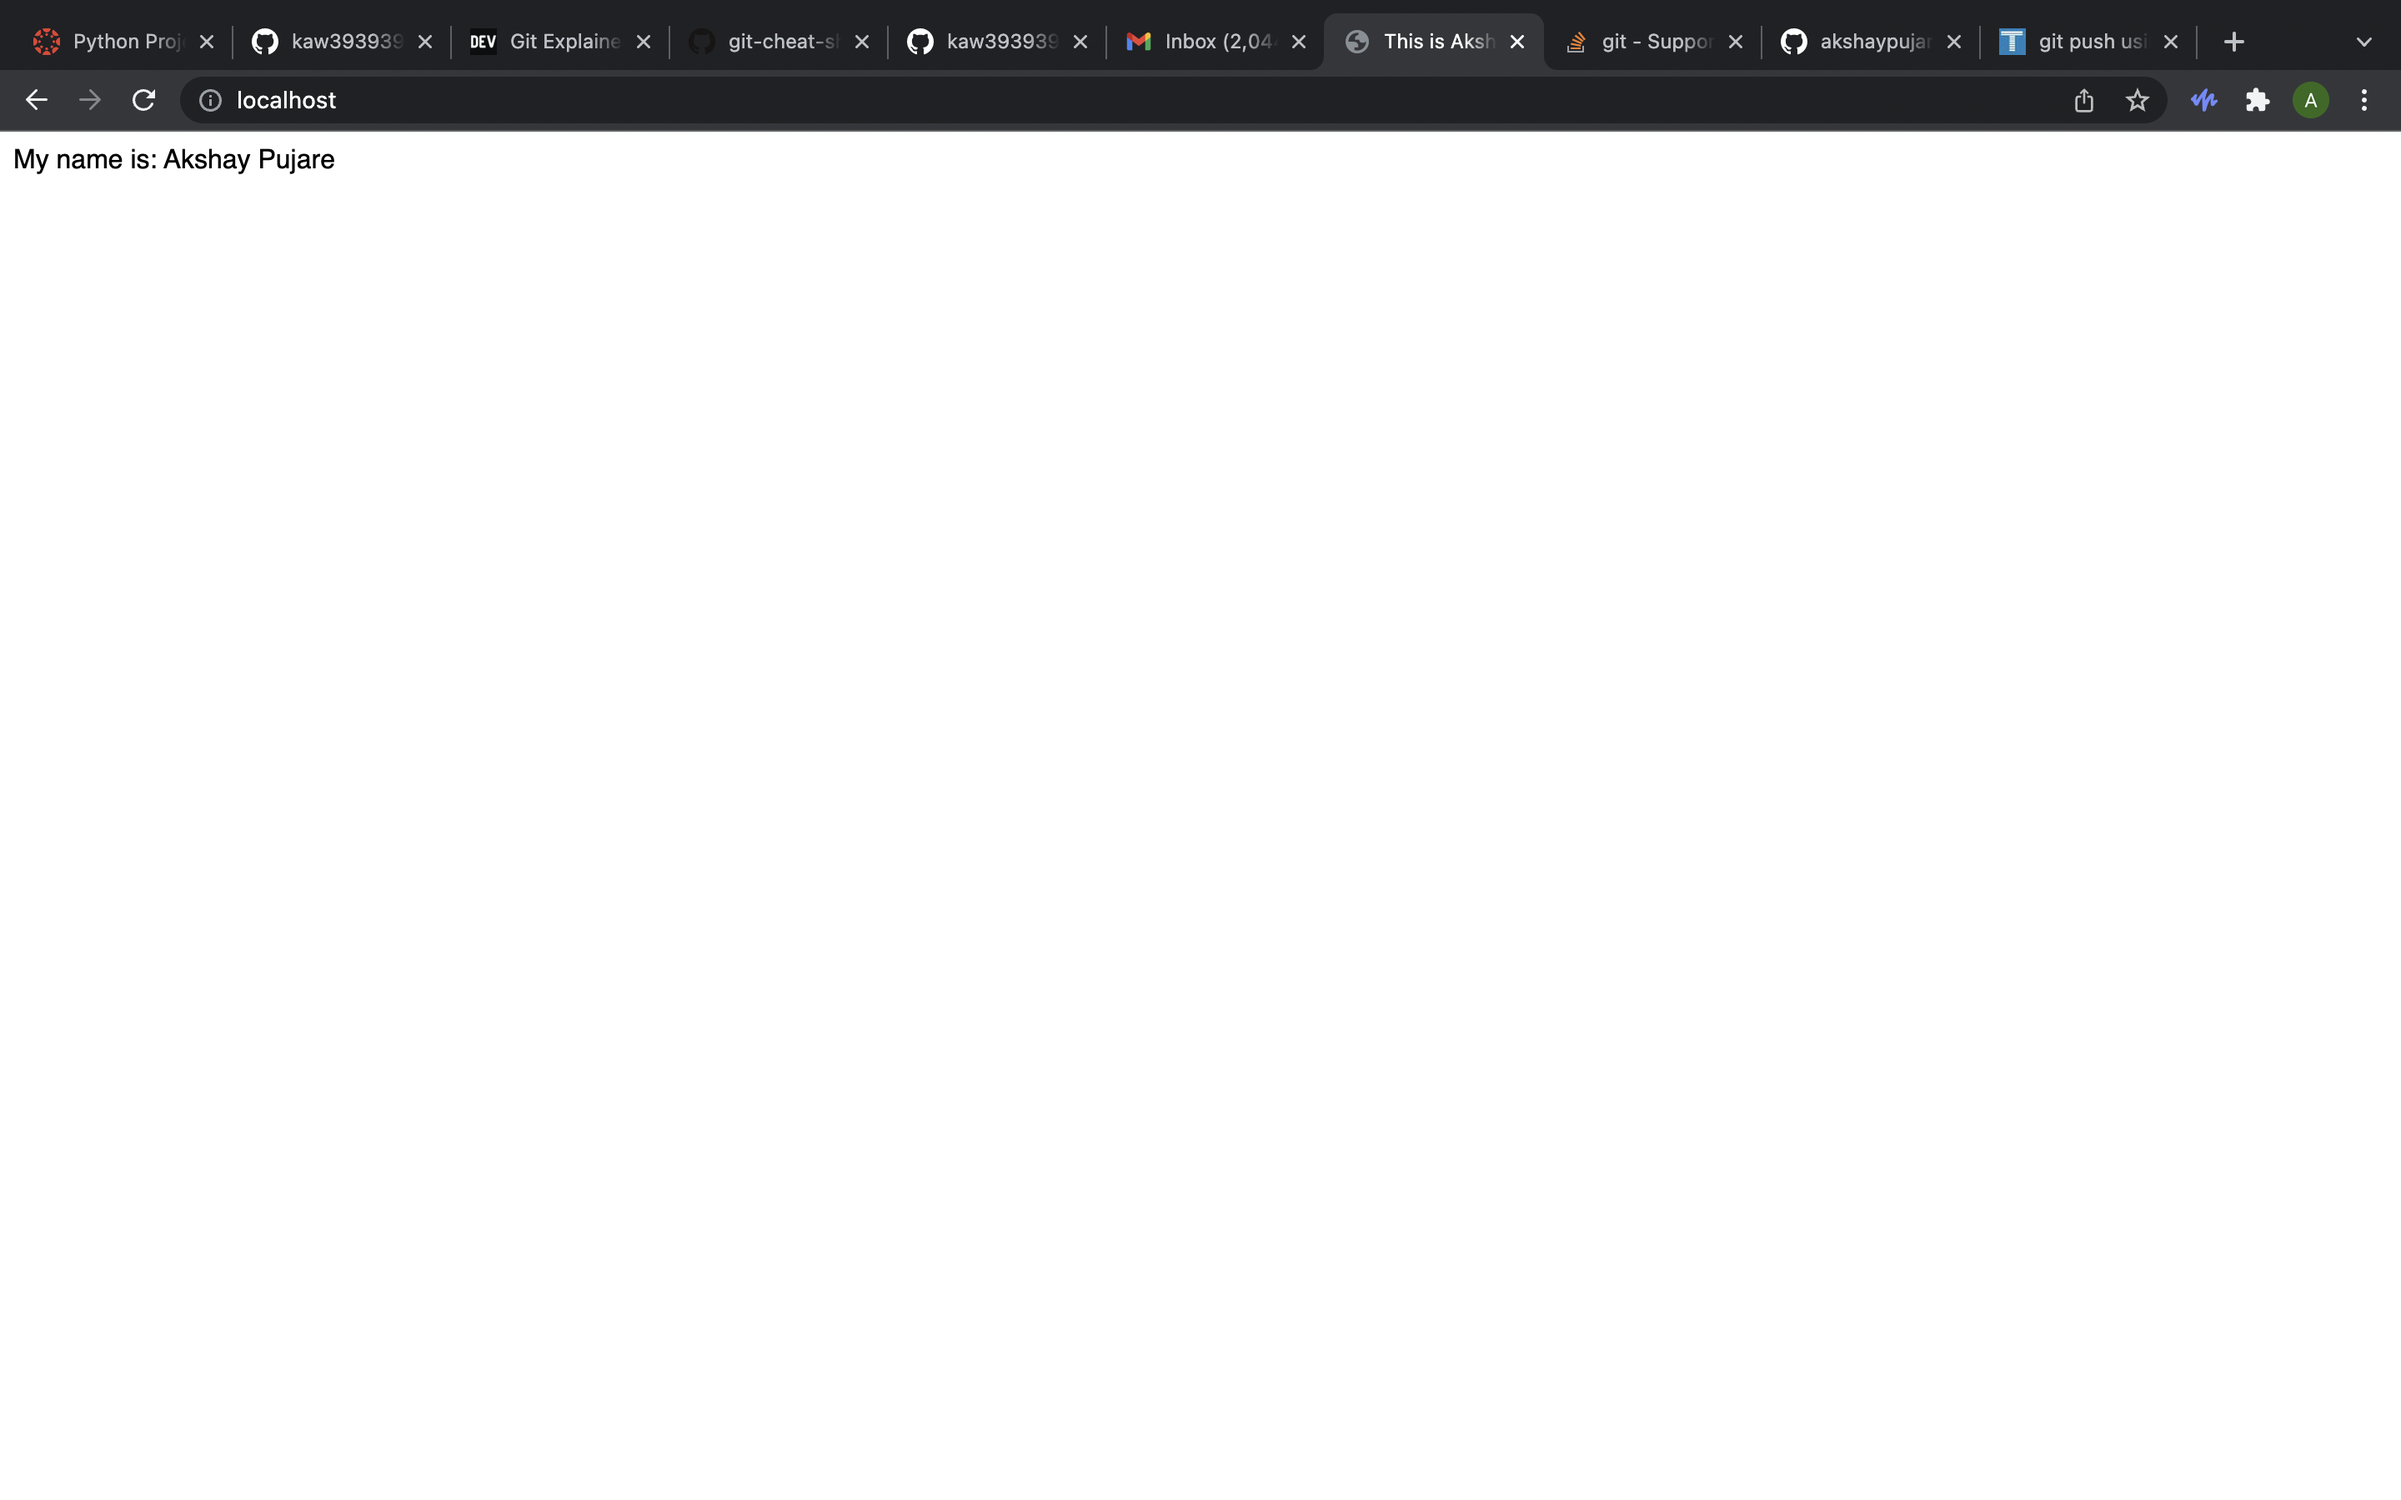
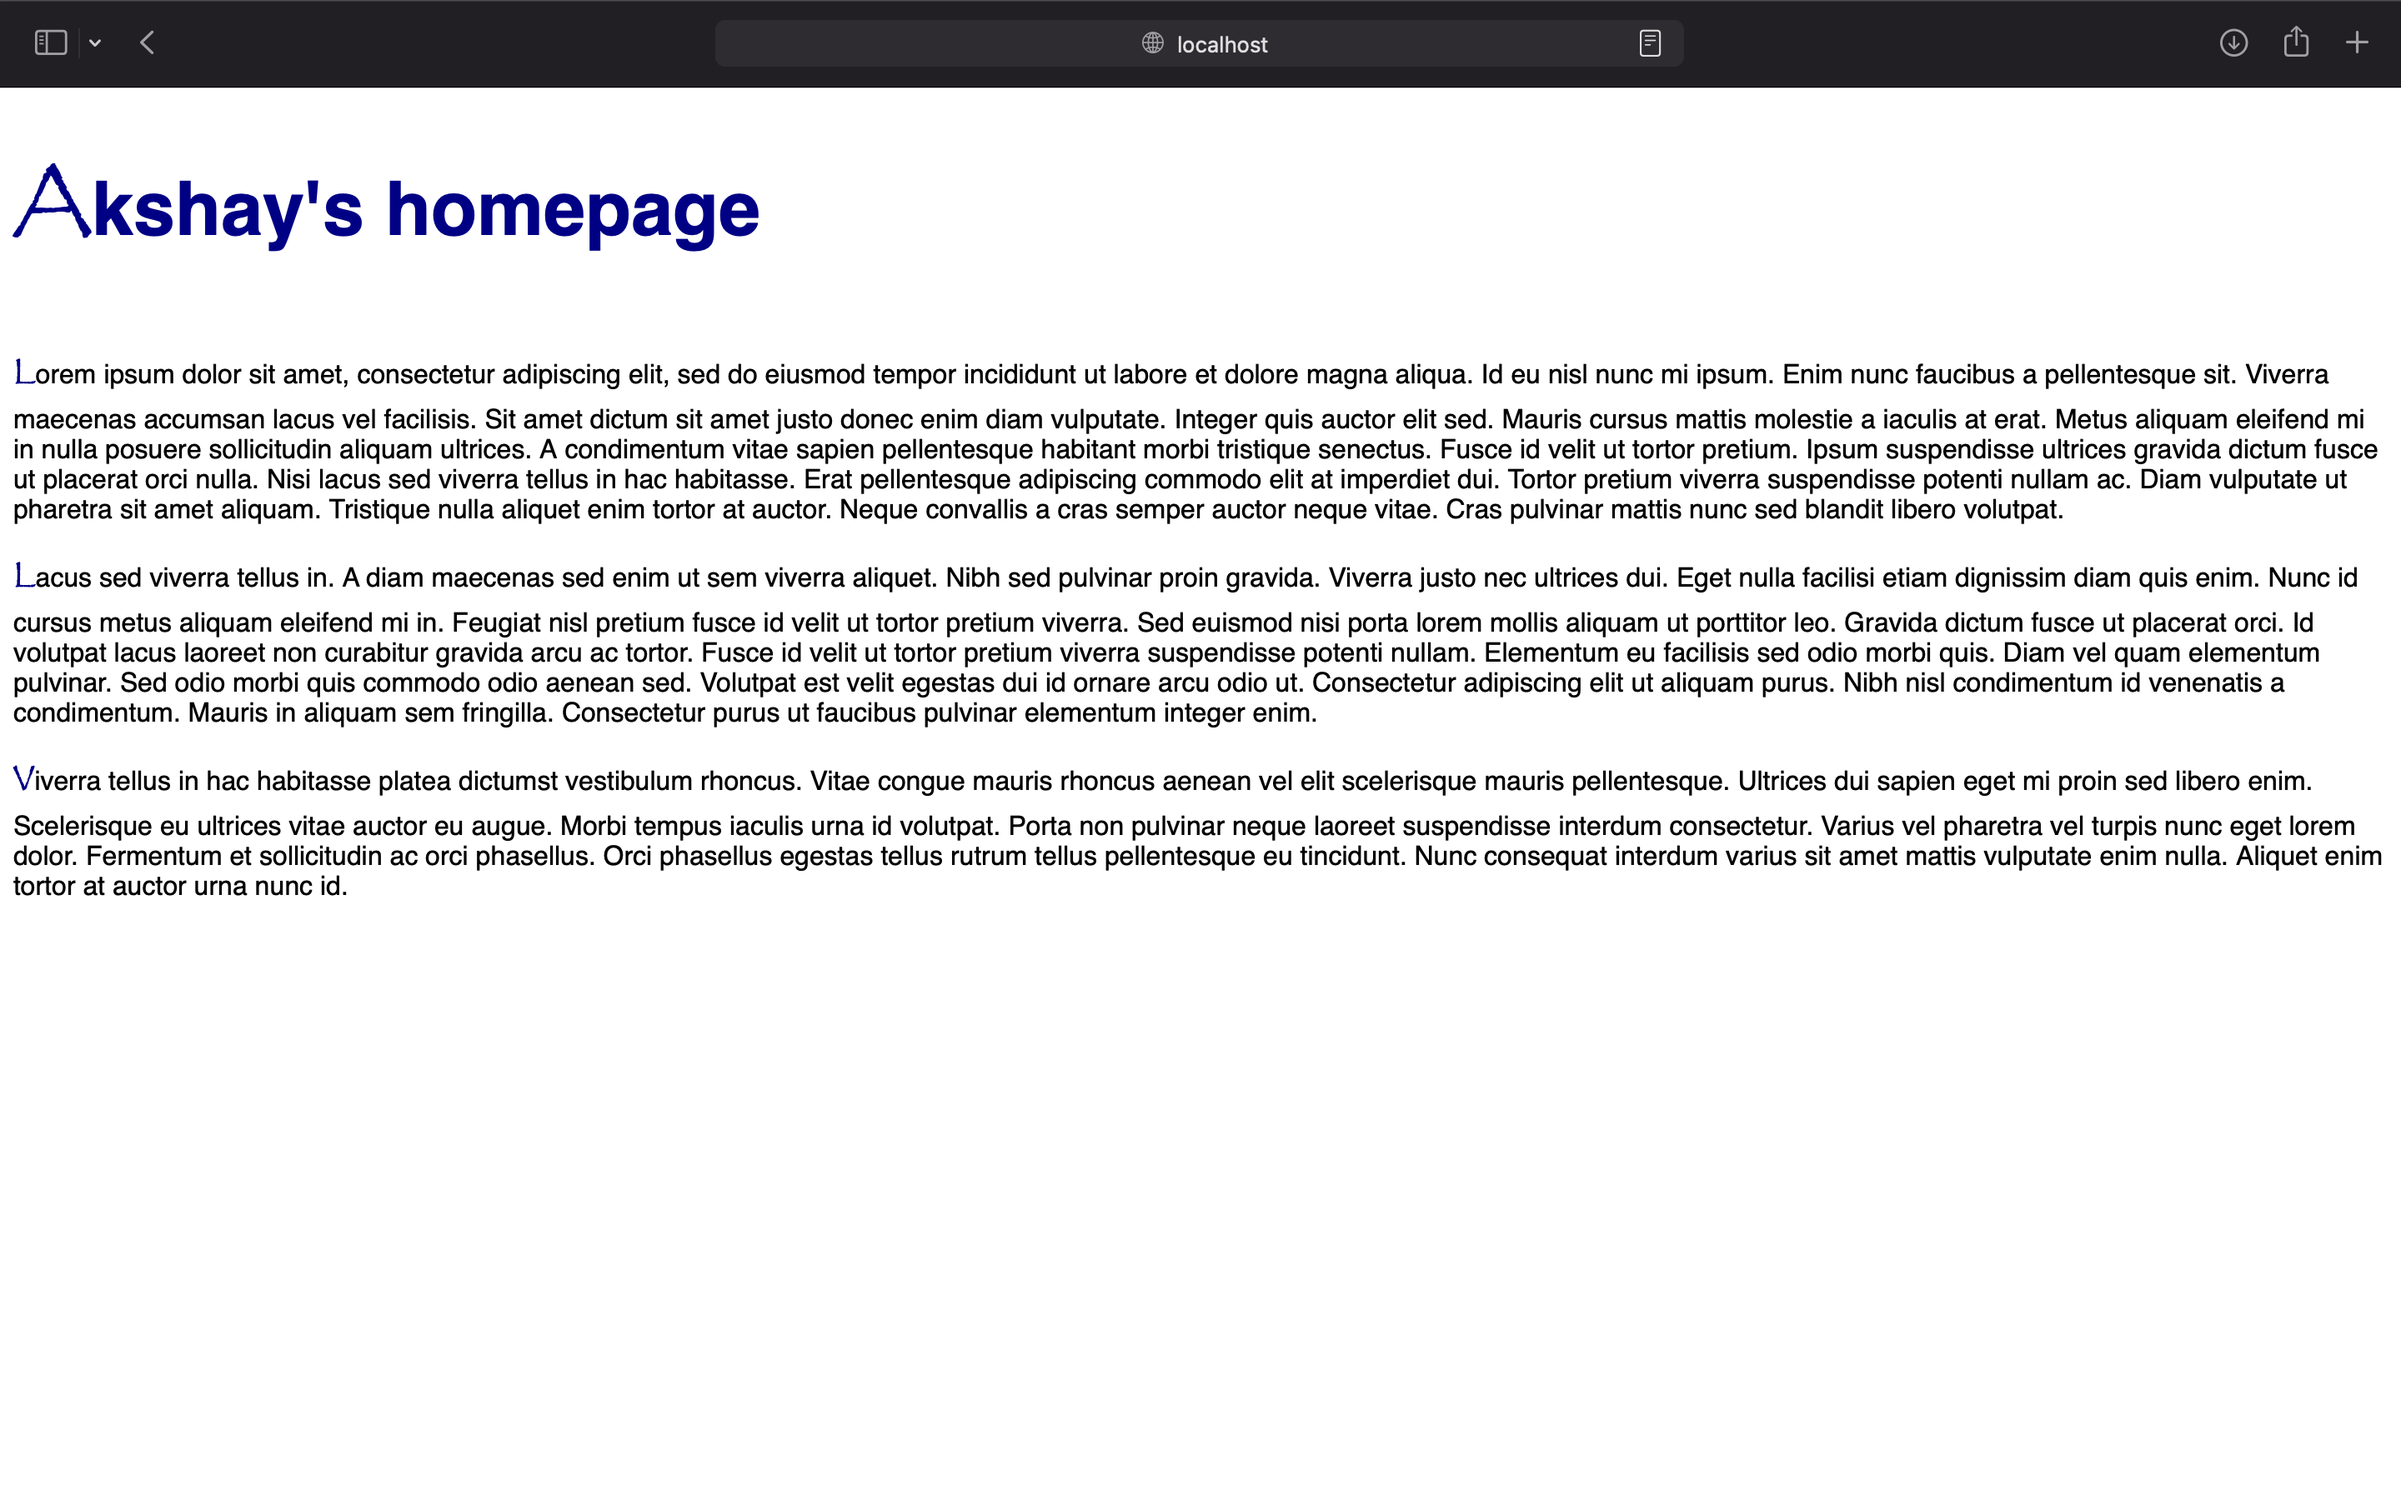
new web page

Changed region(s): [[0.0, 0.3733, 1.0, 0.5911], [0.0, 0.0, 1.0, 0.1867], [0.0, 0.2489, 1.0, 0.3422]]

diff --git a/app/templates/index.html b/app/templates/index.html
@@ -12,6 +12,39 @@
 
 </head>
 <body>
-My name is: {{ name }}
+<div id="main_menu" class="darkblue make_bigger">
+    <h1><span class="red make_bigger papyrus">A</span>kshay's homepage</h1>
+</div>
+<div id="main_content">
+    <p>
+        <span class="darkblue make_bigger papyrus">L</span>orem ipsum dolor sit amet, consectetur adipiscing elit, sed do eiusmod tempor incididunt ut labore et dolore magna
+    aliqua. Id eu nisl nunc mi ipsum. Enim nunc faucibus a pellentesque sit. Viverra maecenas accumsan lacus vel
+    facilisis. Sit amet dictum sit amet justo donec enim diam vulputate. Integer quis auctor elit sed. Mauris cursus
+    mattis molestie a iaculis at erat. Metus aliquam eleifend mi in nulla posuere sollicitudin aliquam ultrices. A
+    condimentum vitae sapien pellentesque habitant morbi tristique senectus. Fusce id velit ut tortor pretium. Ipsum
+    suspendisse ultrices gravida dictum fusce ut placerat orci nulla. Nisi lacus sed viverra tellus in hac habitasse.
+    Erat pellentesque adipiscing commodo elit at imperdiet dui. Tortor pretium viverra suspendisse potenti nullam ac.
+    Diam vulputate ut pharetra sit amet aliquam. Tristique nulla aliquet enim tortor at auctor. Neque convallis a cras
+    semper auctor neque vitae. Cras pulvinar mattis nunc sed blandit libero volutpat.
+    </p>
+    <p>
+    <span class="darkblue make_bigger papyrus">L</span>acus sed viverra tellus in. A diam maecenas sed enim ut sem viverra aliquet. Nibh sed pulvinar proin gravida.
+    Viverra justo nec ultrices dui. Eget nulla facilisi etiam dignissim diam quis enim. Nunc id cursus metus aliquam
+    eleifend mi in. Feugiat nisl pretium fusce id velit ut tortor pretium viverra. Sed euismod nisi porta lorem mollis
+    aliquam ut porttitor leo. Gravida dictum fusce ut placerat orci. Id volutpat lacus laoreet non curabitur gravida
+    arcu ac tortor. Fusce id velit ut tortor pretium viverra suspendisse potenti nullam. Elementum eu facilisis sed odio
+    morbi quis. Diam vel quam elementum pulvinar. Sed odio morbi quis commodo odio aenean sed. Volutpat est velit
+    egestas dui id ornare arcu odio ut. Consectetur adipiscing elit ut aliquam purus. Nibh nisl condimentum id venenatis
+    a condimentum. Mauris in aliquam sem fringilla. Consectetur purus ut faucibus pulvinar elementum integer enim.
+    </p>
+    <p>
+    <span class="darkblue make_bigger papyrus">V</span>iverra tellus in hac habitasse platea dictumst vestibulum rhoncus. Vitae congue mauris rhoncus aenean vel elit
+    scelerisque mauris pellentesque. Ultrices dui sapien eget mi proin sed libero enim. Scelerisque eu ultrices vitae
+    auctor eu augue. Morbi tempus iaculis urna id volutpat. Porta non pulvinar neque laoreet suspendisse interdum
+    consectetur. Varius vel pharetra vel turpis nunc eget lorem dolor. Fermentum et sollicitudin ac orci phasellus. Orci
+    phasellus egestas tellus rutrum tellus pellentesque eu tincidunt. Nunc consequat interdum varius sit amet mattis
+    vulputate enim nulla. Aliquet enim tortor at auctor urna nunc id.
+    </p>
+</div>
 </body>
 </html>

diff --git a/app/static/css/style.css b/app/static/css/style.css
@@ -1,3 +1,14 @@
 body {
     font-family: Helvetica, "Helvetica Neue", sans-serif;
 }
+
+.darkblue{
+    color:darkblue;
+}
+
+.papyrus{
+    font-family: Papyrus, Helvetica, sans-serif;
+}
+.make_bigger{
+    font-size: 140%;
+}
